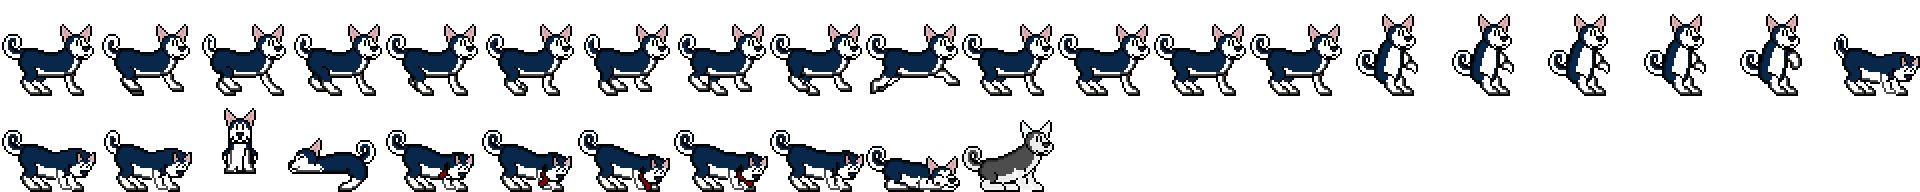
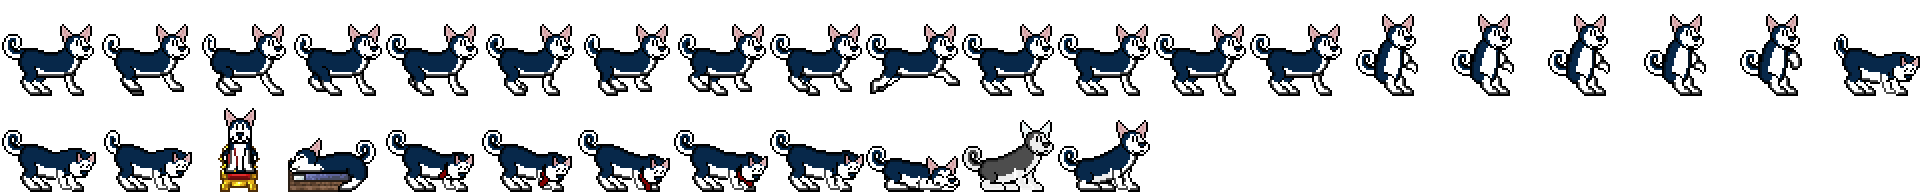
Fixing the mess I left in the mod.

diff --git a/TerraGuardian.cs b/TerraGuardian.cs
@@ -383,10 +383,18 @@ namespace giantsummon
             {
                 int AttackRangeX = 0;
                 int y;
-                int Frame = Base.ItemUseFrames[2];
+                if ((ItemPosition == -1 && !Base.DontUseHeavyWeapons) || (ItemPosition > -1 && MainMod.IsGuardianItem(Inventory[ItemPosition])))
+                {
+                    GetBetweenHandsPosition(Base.HeavySwingFrames[0], out AttackRangeX, out y);
+                }
+                else
+                {
+                    GetLeftHandPosition((Kneeling && Base.CanDuck) ? Base.DuckingSwingFrames[2] : Base.ItemUseFrames[2], out AttackRangeX, out y);
+                }
+                /*int Frame = Base.ItemUseFrames[2];
                 if (Kneeling && Base.CanDuck)
                     Frame = Base.DuckingSwingFrames[2];
-                GetLeftHandPosition(Frame, out AttackRangeX, out y);
+                GetLeftHandPosition(Frame, out AttackRangeX, out y);*/
                 AttackRangeX = (int)(SpriteWidth * 0.5f) - AttackRangeX;
                 Range += (int)(AttackRangeX * Scale);
             }
@@ -423,7 +431,7 @@ namespace giantsummon
             {
                 int AttackRangeYUpper = 0, AttackRangeYLower = 0;
                 int x;
-                if (ItemPosition == -1 || MainMod.IsGuardianItem(Inventory[ItemPosition]))
+                if ((ItemPosition == -1 && !Base.DontUseHeavyWeapons) || (ItemPosition > -1 && MainMod.IsGuardianItem(Inventory[ItemPosition])))
                 {
                     GetBetweenHandsPosition(Base.HeavySwingFrames[0], out x, out AttackRangeYUpper);
                 }
@@ -433,7 +441,7 @@ namespace giantsummon
                 }
                 //AttackRangeYUpper = -SpriteHeight + AttackRangeYUpper;
                 RangeYUpper += (int)(AttackRangeYUpper * Scale);
-                if (ItemPosition == -1 || MainMod.IsGuardianItem(Inventory[ItemPosition]))
+                if ((ItemPosition == -1 && !Base.DontUseHeavyWeapons) || (ItemPosition > -1 && MainMod.IsGuardianItem(Inventory[ItemPosition])))
                 {
                     GetBetweenHandsPosition(Base.HeavySwingFrames[2], out x, out AttackRangeYLower);
                 }

diff --git a/MainMod.cs b/MainMod.cs
@@ -538,8 +538,8 @@ namespace giantsummon
                 {
                     Text = "Press '" + Main.cHook + "' to give up.";
                     Utils.DrawBorderString(Main.spriteBatch, Text, new Vector2(Main.screenWidth * 0.5f, Main.screenHeight * 0.75f + 28), Color.OrangeRed, 1f, 0.5f, 0.5f);
-                    Text = "Getting help in " + Math.Round(PlayerMod.HelpCooldown - (float)Main.player[Main.myPlayer].GetModPlayer<PlayerMod>().ReviveCooldown / 60, 1) + " seconds";
-                    Utils.DrawBorderString(Main.spriteBatch, Text, new Vector2(Main.screenWidth * 0.5f, Main.screenHeight * 0.75f + 28 + 26), Color.OrangeRed, 0.85f, 0.5f, 0.5f);
+                    //Text = "Getting help in " + Math.Round(PlayerMod.HelpCooldown - (float)Main.player[Main.myPlayer].GetModPlayer<PlayerMod>().ReviveCooldown / 60, 1) + " seconds";
+                    //Utils.DrawBorderString(Main.spriteBatch, Text, new Vector2(Main.screenWidth * 0.5f, Main.screenHeight * 0.75f + 28 + 26), Color.OrangeRed, 0.85f, 0.5f, 0.5f);
                 }
 
             }

diff --git a/Npcs/RococoNPC.cs b/Npcs/RococoNPC.cs
@@ -104,6 +104,15 @@ namespace giantsummon.Npcs
 
         public override void AI()
         {
+            if (npc.ai[2] == 0)
+            {
+                if ((Math.Abs(Main.player[Main.myPlayer].Center.X - npc.Center.X) >= NPC.sWidth * 0.5f + NPC.safeRangeX ||
+                    Math.Abs(Main.player[Main.myPlayer].Center.Y - npc.Center.Y) >= NPC.sHeight * 0.5f + NPC.safeRangeY))
+                {
+                    Main.NewText("A Giant Raccoon appeared to the " + GuardianBountyQuest.GetDirectionText(npc.Center - Main.player[Main.myPlayer].Center) + " of " + Main.player[Main.myPlayer].name + " position.");
+                }
+                npc.ai[2] = 1;
+            }
             if (!Main.dayTime)
             {
                 bool PlayerInRange = false;

diff --git a/Npcs/AlexNPC.cs b/Npcs/AlexNPC.cs
@@ -422,7 +422,7 @@ namespace giantsummon.Npcs
                 {
                     npc.frameCounter++;
                     Frame = ((int)npc.frameCounter / 5) % 4;
-                    if (Frame == 2)
+                    if (Frame == 3)
                         Frame = 1;
                     Frame += 19;
                 }
@@ -433,7 +433,7 @@ namespace giantsummon.Npcs
             }
             if (Frame >= AlexGuardianBase.FramesInRows)
             {
-                npc.frame.Y += Frame / AlexGuardianBase.FramesInRows;
+                npc.frame.Y = Frame / AlexGuardianBase.FramesInRows;
                 Frame -= npc.frame.Y * AlexGuardianBase.FramesInRows;
             }
             else

diff --git a/Creatures/Alex/AlexBase.cs b/Creatures/Alex/AlexBase.cs
@@ -64,7 +64,7 @@ namespace giantsummon.Creatures
             //DuckingFrame = 20;
             //DuckingSwingFrames = new int[] { 21, 22, 12 };
             SittingFrame = 14;
-            ChairSittingFrame = 18;
+            ChairSittingFrame = 31;
             SittingItemUseFrames = new int[] { 15, 16, 17 };
             DrawLeftArmInFrontOfHead.AddRange(new int[] { 10, 11, 15 });
             ThroneSittingFrame = 22;
